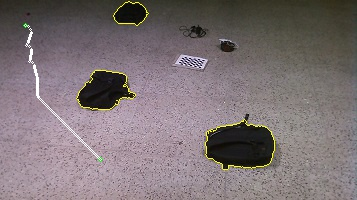
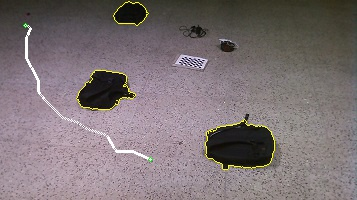
Hybrid Type-2 Updated

diff --git a/A-star-potetial-field-hybrid-type-2.py b/A-star-potetial-field-hybrid-type-2.py
@@ -460,7 +460,7 @@ def final_path(sx, sy, dx, dy, arr, sol):
             cx = -1
             cy = -1
             for j in sol:
-                if math.sqrt((sx1-j[0])*(sx1-j[0])+ (sy1-j[1])*(sy1-j[1])) < d:
+                if math.sqrt((sx1-j[0])*(sx1-j[0])+ (sy1-j[1])*(sy1-j[1])) <= d:
                     cx = j[0]
                     cy = j[1]
                     d = math.sqrt((sx1-j[0])*(sx1-j[0])+ (sy1-j[1])*(sy1-j[1]))
